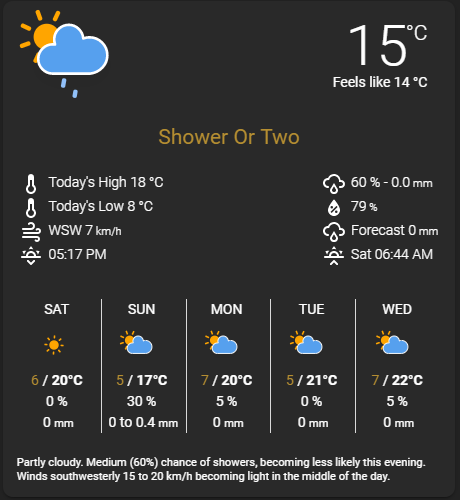
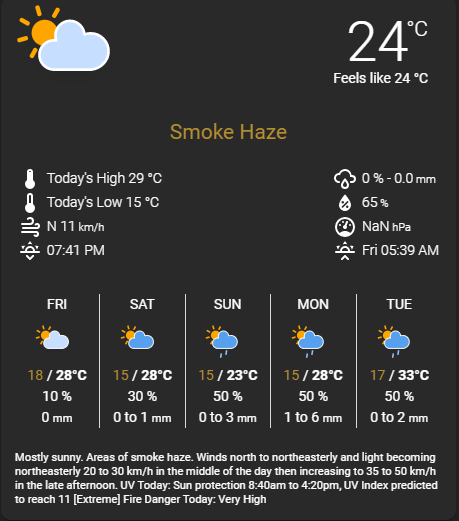
new card with UV and Fire Danger

diff --git a/bom-weather-card.js b/bom-weather-card.js
@@ -21,7 +21,9 @@ class BOMWeatherCard extends LitElement {
     var apparentTemp = this.config.entity_apparent_temp ? html`<span class="apparent">${this.localeText.feelsLike} <span id="apparent-text">${this.current.apparent}</span> ${this.getUOM("temperature")}</span>` : ``;
     var summary = this.config.entity_daily_summary ? html`${this._hass.states[this.config.entity_daily_summary].state}` : ``;
     var separator = this.config.show_separator ? html`<hr class=line>` : ``;
-    
+    var uv_alert = this.config.entity_uv_alert ? html`${this._hass.states[this.config.entity_uv_alert].state}` : ``;
+    var fire_danger = this.config.entity_fire_danger ? html`${this._hass.states[this.config.entity_fire_danger].state}` : ``;
+   
 // Build HTML    
     return html`
       <style>
@@ -63,7 +65,7 @@ class BOMWeatherCard extends LitElement {
                 </div>`)}
               </div>
             <div class="summary clear">
-              ${summary}
+              ${summary} ${uv_alert} ${fire_danger}
               </div>
       </ha-card>
     `;

diff --git a/info.md b/info.md
@@ -2,7 +2,40 @@
 
 ## Changes
 
-Some BOM conditions present in BOM were missing from the card. This resulted in some icons not showing at times.
+Added new UV_Alert and Fire_danger conditions from the BOM FTP Component. In addition to a template, they require 2 new lines in the lovelace config.
+(the sample weather.yaml includes all templates)
+Template:
+```yaml
+      bom_uv_alert:
+        value_template: >
+            {%- if states('sensor.bom_gosford_uv_alert_0') != 'n/a' -%} 
+            UV: {{ states('sensor.bom_gosford_uv_alert_0') }}
+            {%- else -%}
+            UV: {{ states('sensor.bom_gosford_uv_alert_1') }}
+            {%- endif -%}
+
+      bom_fire_danger:
+        value_template: >
+            {%- if states('sensor.bom_gosford_fire_danger_0') != 'n/a' -%} 
+            Fire Danger: {{ states('sensor.bom_gosford_fire_danger_0') }}
+            {%- else -%}
+            Fire Danger: {{ states('sensor.bom_gosford_fire_danger_1') }}
+            {%- endif -%}
+```
+
+Note this example is for my Gosford sensors. You will need to examine your states to see what your names are. This is required as well as the current text and min/max templates.
+Just remember, BOM zeros out some sensors during the day (like the min when the temperature starts rising is set to n/a and the max when the temp starts falling is set to n/a - using the min/max template makes sure there is a value available. With UV and Fre danger, these will switch between today and tomorrows values when BOM makes today's value unavailable.)
+
+Add to Lovelace:
+```yaml
+            entity_uv_alert: sensor.bom_uv_alert
+            entity_fire_danger: sensor.bom_fire_danger
+```
+
+(along with the other entities in the card of course!) See example lovelace.yaml
+
+It is important to note that if you have a non-existant entity parsed through to the card, the card won't load and will be blank. If you don't want an entity to display, don't parse it through to the card in teh lovelace configuration.
+
 
 ## Older Changes:
 

diff --git a/README.md b/README.md
@@ -156,7 +156,9 @@ Optional entries add components to the card. My BOM area (Gosford) does not incl
 
 **Note:** The following entries require template sensors.  
 ~~~~
-entity_current_text: sensor.dark_sky_current_text
+            entity_current_text: sensor.dark_sky_current_text
+            entity_uv_alert: sensor.bom_uv_alert
+            entity_fire_danger: sensor.bom_fire_danger
 ~~~~
 
 **Example template sensors:** You can call template sensors whatever you want so long as you use the same name in the card config. (Included in weather.yaml) 
@@ -165,6 +167,22 @@ entity_current_text: sensor.dark_sky_current_text
         value_template: >
             {% set val = states('sensor.bom_gosford_summary_0').split('.')[0] %} 
             {{ val | title }}
+
+      bom_uv_alert:
+        value_template: >
+            {%- if states('sensor.bom_gosford_uv_alert_0') != 'n/a' -%} 
+            UV: {{ states('sensor.bom_gosford_uv_alert_0') }}
+            {%- else -%}
+            UV: {{ states('sensor.bom_gosford_uv_alert_1') }}
+            {%- endif -%}
+
+      bom_fire_danger:
+        value_template: >
+            {%- if states('sensor.bom_gosford_fire_danger_0') != 'n/a' -%} 
+            Fire Danger: {{ states('sensor.bom_gosford_fire_danger_0') }}
+            {%- else -%}
+            Fire Danger: {{ states('sensor.bom_gosford_fire_danger_1') }}
+            {%- endif -%}
 ~~~~~
 
 Flags are used to control the look and feel of the card (See below for details)
